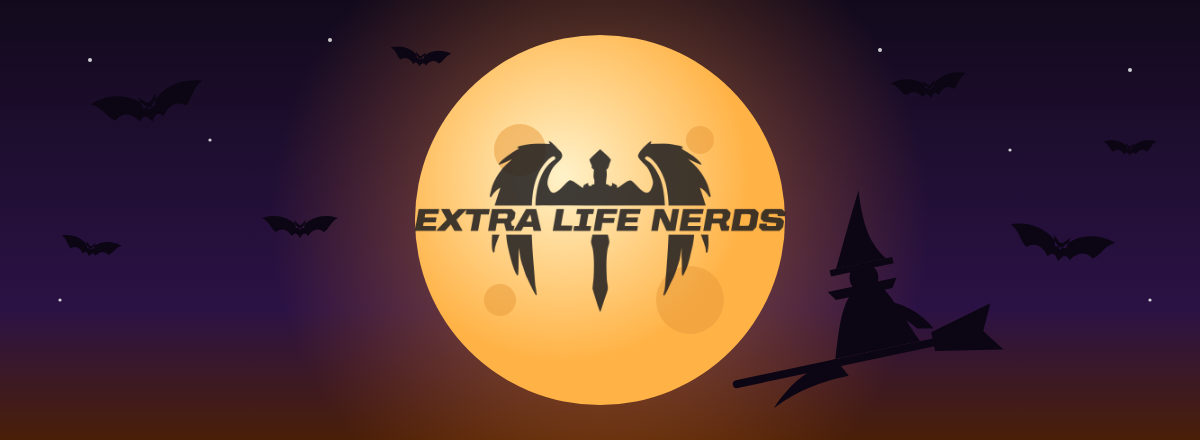
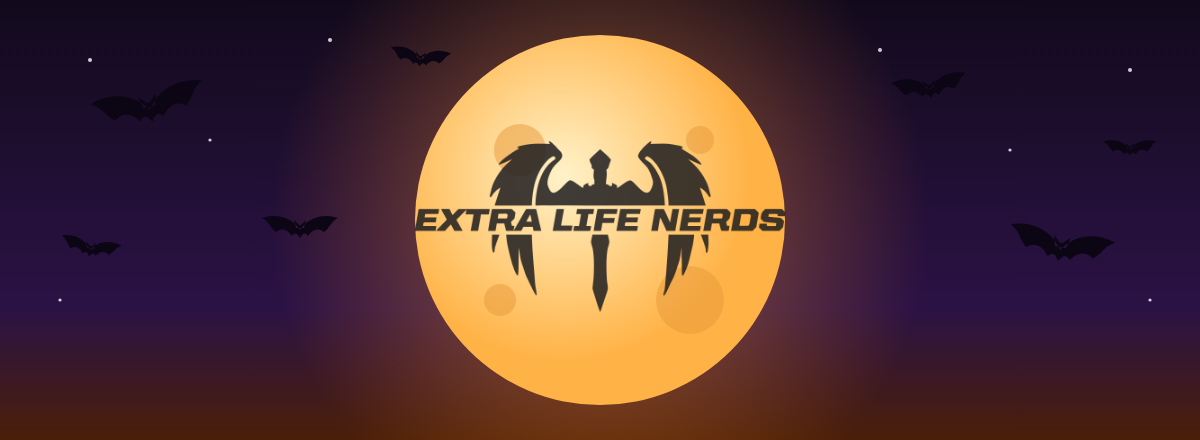
Halloween email: drop the witch, stop the header moon stretching on mobile (no-card) (#89)
Claude-Session: https://claude.ai/code/session_01AcEs4JjV9dnP4oB9chXAmq

Changed region(s): [[0.5858, 0.4432, 0.8325, 0.9159]]

diff --git a/email/elnerds-halloween.html b/email/elnerds-halloween.html
@@ -91,7 +91,7 @@
                 <tr>
                   <td align="center">
                     <a href="https://elnerds.com" style="text-decoration:none;">
-                      <img src="https://elnerds.com/email/assets/halloween-header.png" width="600" height="220" alt="Extra Life Nerds" style="display:block; width:600px; height:220px; max-width:100%; border-radius:24px;" />
+                      <img src="https://elnerds.com/email/assets/halloween-header.png" width="600" height="220" alt="Extra Life Nerds" style="display:block; width:100%; max-width:600px; height:auto; border-radius:24px;" />
                     </a>
                   </td>
                 </tr>

diff --git a/public/email/current/index.html b/public/email/current/index.html
@@ -91,7 +91,7 @@
                 <tr>
                   <td align="center">
                     <a href="https://elnerds.com" style="text-decoration:none;">
-                      <img src="https://elnerds.com/email/assets/halloween-header.png" width="600" height="220" alt="Extra Life Nerds" style="display:block; width:600px; height:220px; max-width:100%; border-radius:24px;" />
+                      <img src="https://elnerds.com/email/assets/halloween-header.png" width="600" height="220" alt="Extra Life Nerds" style="display:block; width:100%; max-width:600px; height:auto; border-radius:24px;" />
                     </a>
                   </td>
                 </tr>
